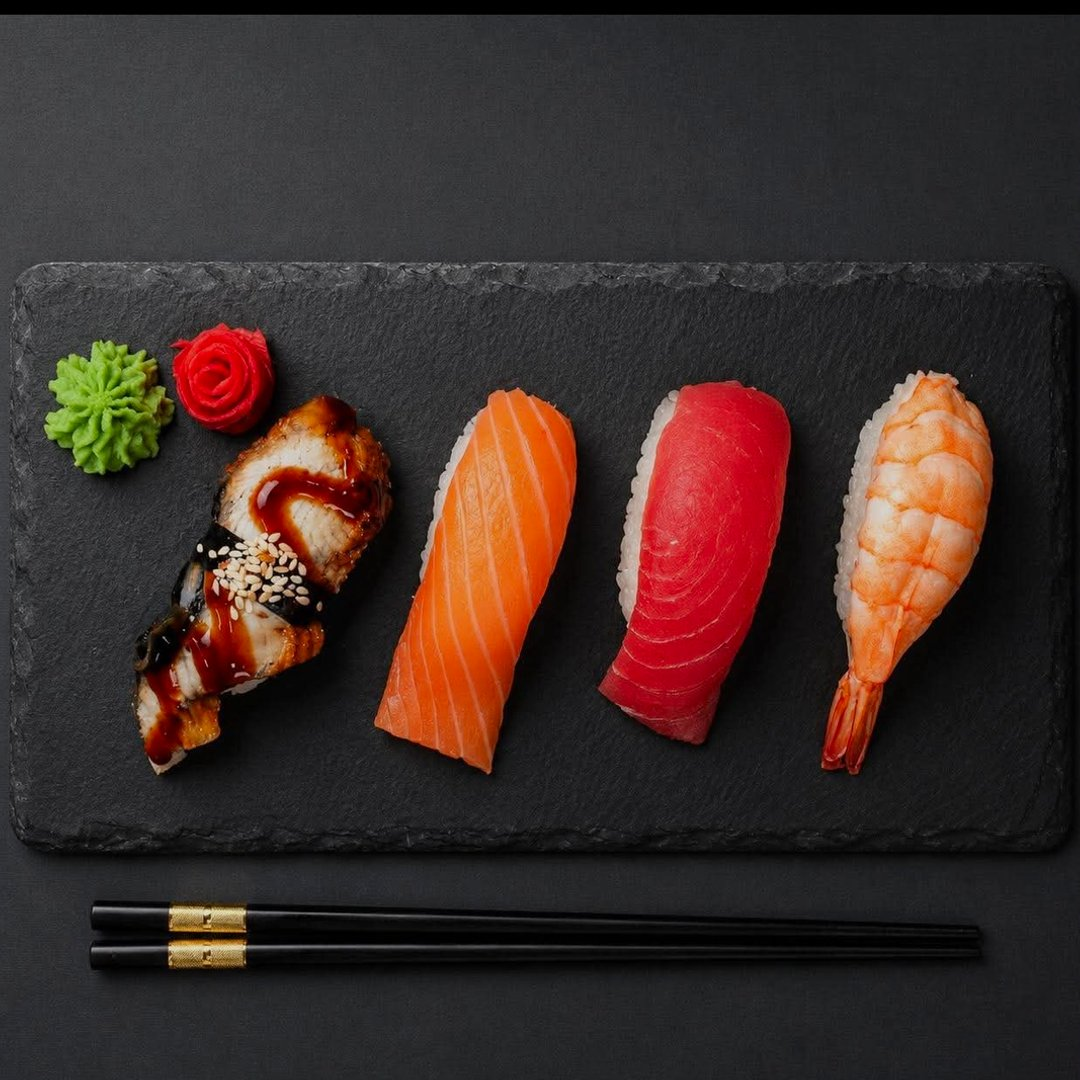
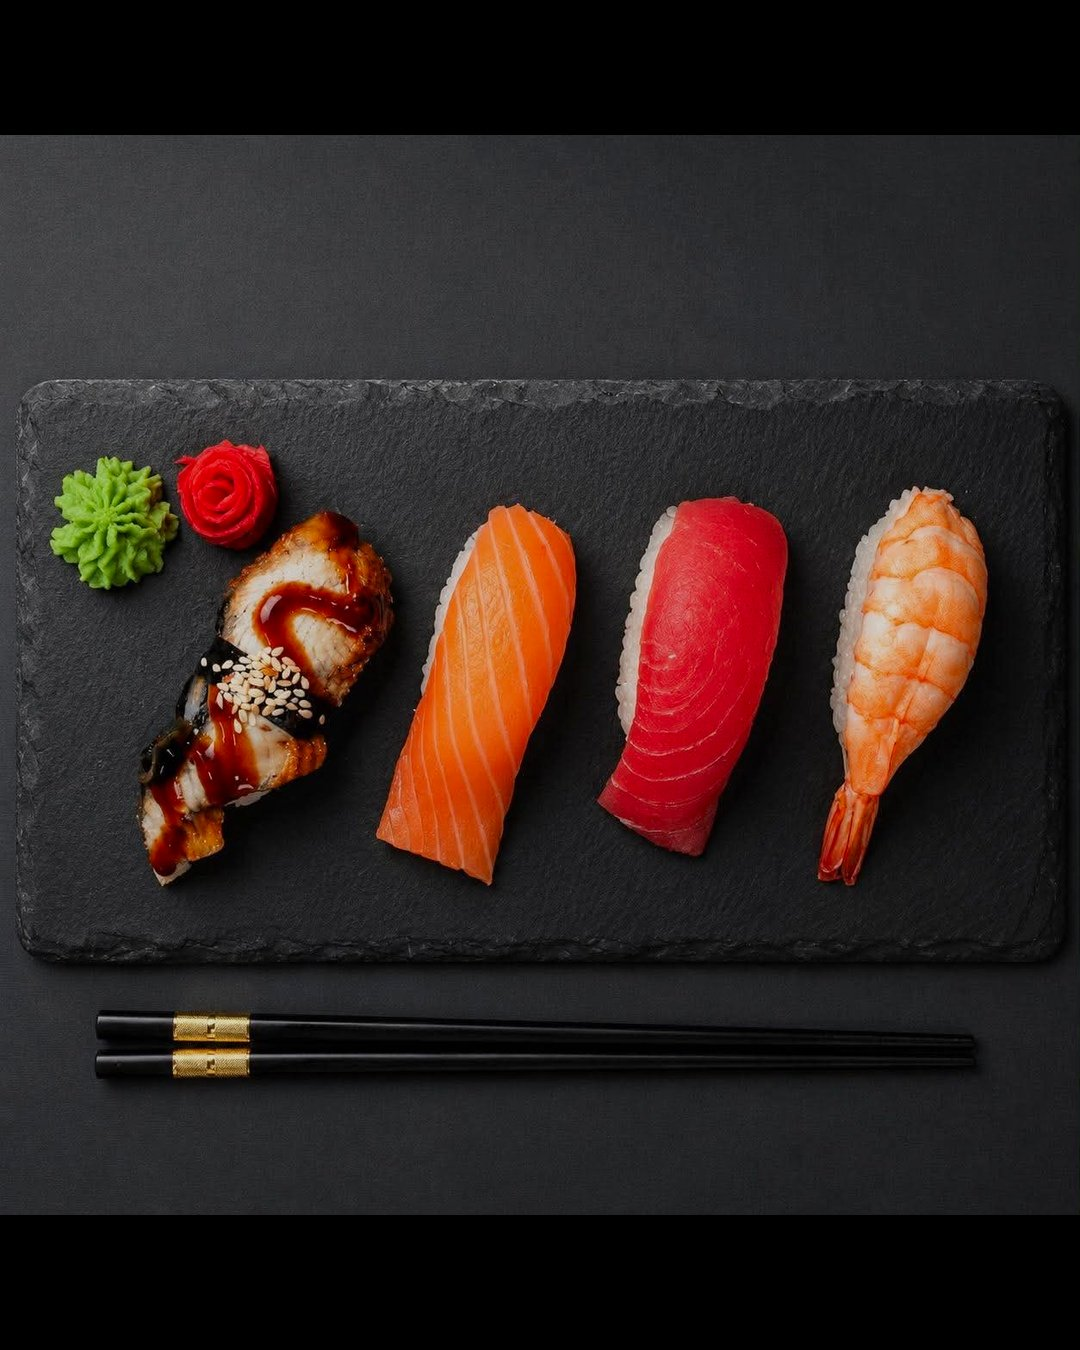
revert: restore mobile hero to yesterday state (min-h-40dvh + original image)

diff --git a/apps/web/src/pages/HomePage.jsx b/apps/web/src/pages/HomePage.jsx
@@ -181,7 +181,7 @@ function HomePage() {
 
       <main className="flex-1">
         {/* Hero Section */}
-        <section className="relative aspect-square sm:aspect-auto sm:min-h-[60dvh] flex items-center justify-center overflow-hidden">
+        <section className="relative min-h-[40dvh] sm:min-h-[60dvh] flex items-center justify-center overflow-hidden">
           <div className="absolute inset-0">
             {/* Mobile image */}
             <img